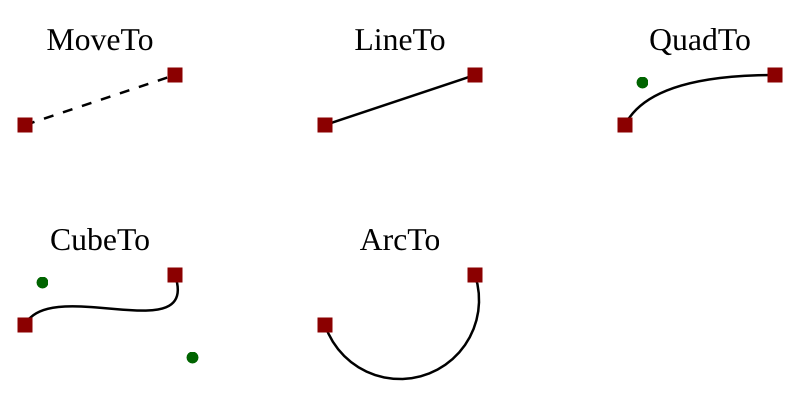
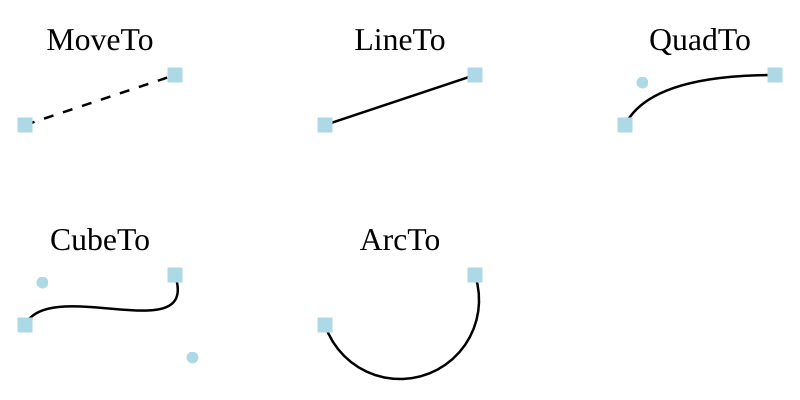
Update documentation

diff --git a/resources/docs/text/main.go b/resources/docs/text/main.go
@@ -11,24 +11,27 @@ var fontFamily *canvas.FontFamily
 
 func main() {
 	fontFamily = canvas.NewFontFamily("times")
-	if err := fontFamily.LoadLocalFont("NimbusRoman-Regular", canvas.FontRegular); err != nil {
+	if err := fontFamily.LoadLocalFont("Liberation Serif", canvas.FontRegular); err != nil {
 		panic(err)
 	}
 
 	c := canvas.New(265, 90)
 	ctx := canvas.NewContext(c)
+	ctx.SetFillColor(canvas.White)
+	ctx.DrawPath(0, 0, canvas.Rectangle(c.W, c.H))
 	draw(ctx)
 	c.WriteFile("text.png", rasterizer.PNGWriter(5.0))
 }
 
 func drawText(c *canvas.Context, x, y float64, halign, valign canvas.TextAlign, indent float64) {
-	face := fontFamily.Face(6.0, color.Black, canvas.FontRegular, canvas.FontNormal)
-	phrase := "Lorem ipsum dolor sit amet, consectetur adipiscing elit. Morbi egestas, augue eget blandit laoreet, dolor lorem interdum ante, quis consectetur lorem massa vitae nulla. Sed cursus tellus id venenatis suscipit. Nunc volutpat imperdiet ipsum vel varius. Pellentesque mattis viverra odio, ullamcorper iaculis massa tristique imperdiet. Aliquam posuere nisl tortor, in scelerisque elit eleifend sed. Suspendisse in risus aliquam leo vestibulum gravida. Sed ipsum massa, fringilla at pellentesque vitae, dictum nec libero. Morbi lorem ante, facilisis a justo vel, mollis fringilla massa. Mauris aliquet imperdiet magna, ac tempor sem fringilla sed."
+	face := fontFamily.Face(10.0, color.Black, canvas.FontRegular, canvas.FontNormal)
+	phrase := "Lorem ipsum dolor sit amet, consectetur adipiscing elit. Morbi egestas, augue eget blandit laoreet, dolor lorem interdum ante, quis consectetur lorem massa vitae nulla. Sed cursus tellus id venenatis suscipit." // Nunc volutpat imperdiet ipsum vel varius. Pellentesque mattis viverra odio, ullamcorper iaculis massa tristique imperdiet. Aliquam posuere nisl tortor, in scelerisque elit eleifend sed. Suspendisse in risus aliquam leo vestibulum gravida. Sed ipsum massa, fringilla at pellentesque vitae, dictum nec libero. Morbi lorem ante, facilisis a justo vel, mollis fringilla massa. Mauris aliquet imperdiet magna, ac tempor sem fringilla sed."
 
 	text := canvas.NewTextBox(face, phrase, 60.0, 35.0, halign, valign, indent, 0.0)
 	c.SetFillColor(canvas.Whitesmoke)
+	c.SetStrokeColor(canvas.Gray)
+	c.SetStrokeWidth(0.05)
 	c.DrawPath(x, y, canvas.Rectangle(60.0, -35.0))
-	c.SetFillColor(canvas.Black)
 	c.DrawText(x, y, text)
 }
 

diff --git a/resources/docs/paths/main.go b/resources/docs/paths/main.go
@@ -23,13 +23,13 @@ func main() {
 }
 
 func drawPos(c *canvas.Context, x, y float64) {
-	c.SetFillColor(canvas.Darkred)
+	c.SetFillColor(canvas.Lightblue)
 	c.SetStrokeColor(canvas.Transparent)
 	c.DrawPath(x-1.5, y-1.5, canvas.Rectangle(3.0, 3.0))
 }
 
 func drawControl(c *canvas.Context, x, y float64) {
-	c.SetFillColor(canvas.Darkgreen)
+	c.SetFillColor(canvas.Lightblue)
 	c.SetStrokeColor(canvas.Transparent)
 	c.DrawPath(x-1.5, y-1.5, canvas.Circle(1.2))
 }
